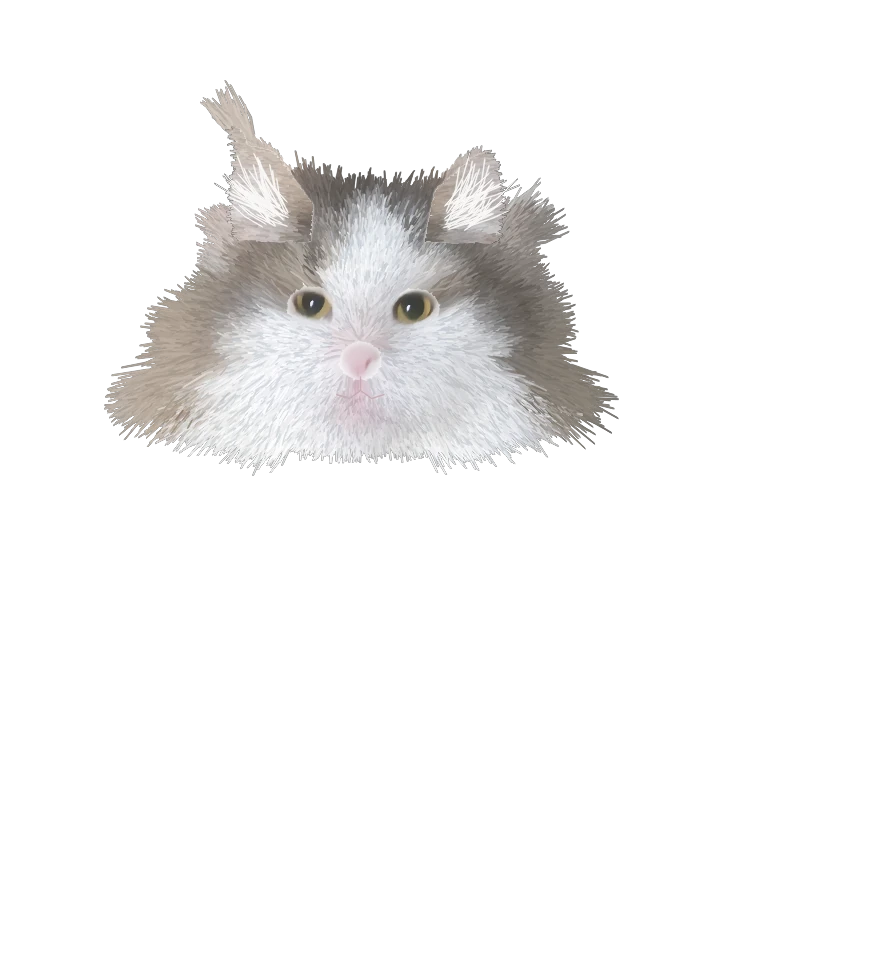
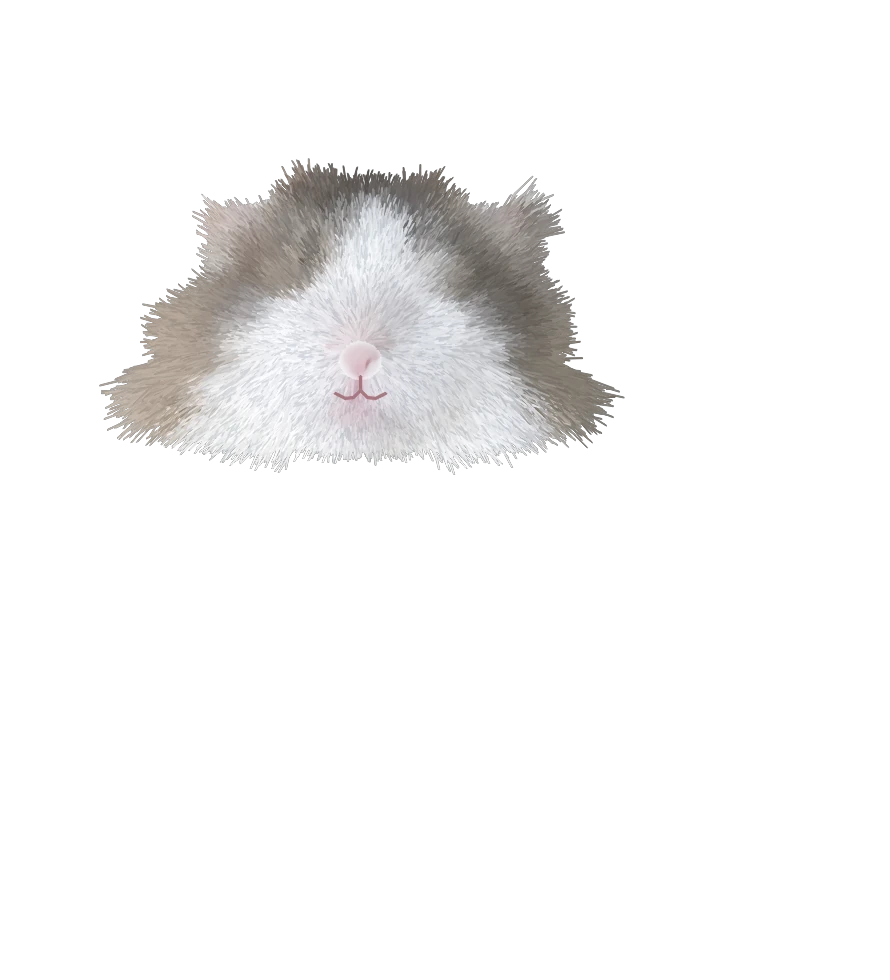
Playground: Ana design pass (separate designed ears with lynx tips and tufts, drawn almond eyes with lids, clearer mouth)
Claude-Session: https://claude.ai/code/session_01W4x6f7KtFbhsBZfqVxHVQA

Changed region(s): [[0.182, 0.0918, 0.6371, 0.3673], [0.1213, 0.3061, 0.6978, 0.4898]]

diff --git a/william/tpl.html b/william/tpl.html
@@ -715,7 +715,7 @@ XMLHttpRequest.prototype.open = function (m, url, ...rest) { for (const k in MOC
 // 絵の座標（890×980）：足もと (370, 885)、首 (360, 440)、しっぽのつけ根 (560, 705)、目 (312, 306) (414, 308)、口 (360, 390)
 // 性格は食いしん坊：正解すると ごはんがもらえて もぐもぐ。空のときは ときどき ぺろっ、「ごはん まだ？」
 const ANA = { img: {}, n: 0, blinkAt: 0, lookT: -1e9, lickT: -1e9, nextLick: 0, eatT: -1e9, food: 0, taps: 0, wantT: -1e9, nextWant: 0 };
-if (PLAYGROUND) for (const [k, src] of Object.entries(__ANA__)) { const im = new Image(); im.onload = () => { ANA.img[k] = im; if (++ANA.n === 3) { ANA.blinkAt = performance.now() + 3000; ANA.nextLick = performance.now() + 12000; } }; im.src = src; }
+if (PLAYGROUND) for (const [k, src] of Object.entries(__ANA__)) { const im = new Image(); im.onload = () => { ANA.img[k] = im; if (++ANA.n === 4) { ANA.blinkAt = performance.now() + 3000; ANA.nextLick = performance.now() + 12000; } }; im.src = src; }
 function anaFeed() { if (!PLAYGROUND) return; const t = performance.now(); if (t - ANA.eatT < 5200) { ANA.food = 1; return; } ANA.food = 1; ANA.eatT = t + 700; ANA.lookT = t; }
 function anaSpot() {
 	if (stacked) { const p = IMG_PL.top, q = M(p.x + 70, p.y); return { x: q.x, y: q.y }; }  // スマホ：同じ台の右どなり
@@ -723,7 +723,7 @@ function anaSpot() {
 }
 function anaH() { return catH * (stacked ? 1.0 : 1.2); }
 function drawAna(t) {
-	if (ANA.n < 3) return; const I = ANA.img, c = ctx, sp = anaSpot(), h = anaH(), k = h / 790;
+	if (ANA.n < 4) return; const I = ANA.img, c = ctx, sp = anaSpot(), h = anaH(), k = h / 790;
 	let lid = 0.08, mouth = 0, up = 0, dip = 0, lick = 0;
 	const bk = (t - ANA.blinkAt) / 240; if (bk >= 0 && bk < 1) lid = Math.max(lid, Math.sin(bk * Math.PI)); else if (bk >= 1) ANA.blinkAt = t + 3000 + Math.random() * 4000;
 	const lk = (t - ANA.lookT) / 1600; if (lk >= 0 && lk < 1) { up = Math.sin(lk * Math.PI); lid *= 1 - up; }
@@ -743,10 +743,22 @@ function drawAna(t) {
 	c.save(); c.translate(370, 885); c.scale(1 + br * 0.006, 1 + br * 0.01 - dip * 0.03); c.drawImage(I.body, -370, -885); c.restore();
 	// 頭（首を中心に かたむく・上を向く・おさらへ下げる）
 	c.save(); c.translate(360 - dip * 40, 440 - br * 3 - up * 10 + dip * 70 + chew * 5); c.rotate(sway * 0.035 - dip * 0.22); c.scale(1, 1 + up * 0.02); c.translate(-360, -440);
+	// 耳（頭のうしろ。つけ根を中心に ときどき ぴくっ。ごはん？のときは 立てる、食べるときは 少し寝かせる）
+	{ const tw = (t % 6100) / 260, a1 = tw < 1 ? Math.sin(tw * Math.PI) : 0, tw2 = ((t + 2700) % 8300) / 260, a2 = tw2 < 1 ? Math.sin(tw2 * Math.PI) : 0;
+	  for (const [sx, px, py, tw3] of [[-1, 275, 245, a1], [1, 448, 245, a2]]) { c.save(); c.translate(px, py); c.rotate(sx * (tw3 * 0.16 + dip * 0.12 - up * 0.06)); c.translate(-px, -py); c.beginPath(); c.rect(sx < 0 ? -200 : 360, -200, 560, 1180); c.clip(); c.drawImage(I.ears, sx * 6, -44); c.restore(); } }  /* 耳は 頭の毛の上に しっかり出す */
 	c.drawImage(I.head, 0, 0);
-	for (const [ex, ey] of [[312, 306], [414, 308]]) {  // まぶた（上から下りる。毛の色）
-		c.save(); c.translate(ex, ey); c.beginPath(); c.ellipse(0, 0, 25, 20, 0, 0, Math.PI * 2); c.clip();
-		const ly = -20 + lid * 40; c.fillStyle = '#e9e6e3'; c.fillRect(-26, -21, 52, ly + 21); c.strokeStyle = '#5a504a'; c.lineWidth = 2.4; c.beginPath(); c.moveTo(-26, ly - 3); c.quadraticCurveTo(0, ly + 4, 26, ly - 3); c.stroke(); c.restore();
+	// 目：デザインした目（アーモンド形で 外がわが少し上がる。こはく色〜黄みどり、たて長のひとみ、ハイライト）。まぶたが上から下りる
+	for (const [sx, ex, ey] of [[-1, 311, 306], [1, 413, 308]]) {
+		c.save(); c.translate(ex, ey); c.rotate(sx * -0.05);
+		const shape = () => { c.beginPath(); c.moveTo(-sx * 30, 2); c.bezierCurveTo(-sx * 22, -26, sx * 16, -30, sx * 30, -4); c.bezierCurveTo(sx * 22, 24, -sx * 14, 26, -sx * 30, 2); c.closePath(); };  /* まるみのある アーモンド形 */
+		shape(); c.lineWidth = 5; c.strokeStyle = '#3a302b'; c.lineJoin = 'round'; c.stroke(); c.save(); c.clip();
+		const g = c.createRadialGradient(0, 0, 3, 0, 0, 30); g.addColorStop(0, '#b9c463'); g.addColorStop(0.45, '#d8b548'); g.addColorStop(1, '#a9761f'); c.fillStyle = g; c.fillRect(-34, -32, 68, 64);
+		c.fillStyle = '#17120f'; c.beginPath(); c.ellipse(0, -2, 11 + up * 3, 18, 0, 0, Math.PI * 2); c.fill();
+		c.fillStyle = 'rgba(255,255,255,.92)'; c.beginPath(); c.arc(-6, -8, 4.2, 0, Math.PI * 2); c.fill(); c.beginPath(); c.arc(6, 7, 1.8, 0, Math.PI * 2); c.fill();
+		const ly = -30 + lid * 58; c.fillStyle = '#efecea'; c.fillRect(-34, -30, 68, ly + 30); c.strokeStyle = '#3a302b'; c.lineWidth = 3; c.beginPath(); c.moveTo(-34, ly - 2); c.quadraticCurveTo(0, ly + 4, 34, ly - 2); c.stroke();
+		c.restore();
+		c.strokeStyle = '#3a302b'; c.lineWidth = 3.4; c.lineCap = 'round'; c.beginPath(); c.moveTo(-sx * 30, 2); c.bezierCurveTo(-sx * 22, -26, sx * 16, -30, sx * 30, -4); c.stroke();  // 上まぶたの線は 少し太く
+		c.restore();
 	}
 	if (mouth > 0.08) { c.fillStyle = '#8a3a48'; c.beginPath(); c.ellipse(360, 396 + mouth * 5, 9 + mouth * 4, 2 + mouth * 9, 0, 0, Math.PI * 2); c.fill(); c.fillStyle = '#ee9aa6'; c.beginPath(); c.ellipse(360, 400 + mouth * 9, 6, 1 + mouth * 4, 0, 0, Math.PI * 2); c.fill(); }
 	else if (lick > 0.05) { c.fillStyle = '#ee9aa6'; c.strokeStyle = '#d27a88'; c.lineWidth = 1; c.beginPath(); c.moveTo(353, 392); c.quadraticCurveTo(351, 392 + lick * 16, 360, 393 + lick * 18); c.quadraticCurveTo(369, 392 + lick * 16, 367, 392); c.closePath(); c.fill(); c.stroke(); }
@@ -763,7 +775,7 @@ function drawAna(t) {
 	const wk = (t - ANA.wantT) / 3200; if (wk >= 0 && wk < 1) { const a = Math.min(1, wk * 6, (1 - wk) * 6); c.globalAlpha = a; c.fillStyle = 'rgba(255,255,255,.95)'; c.strokeStyle = '#2b2522'; c.lineWidth = 4; const bx = 470, by = 70; c.beginPath(); c.ellipse(bx, by, 150, 50, 0, 0, Math.PI * 2); c.fill(); c.stroke(); c.beginPath(); c.arc(bx - 60, by + 66, 11, 0, Math.PI * 2); c.fill(); c.stroke(); c.fillStyle = '#2b2522'; c.font = '500 40px "Kiwi Maru", sans-serif'; c.textAlign = 'center'; c.textBaseline = 'middle'; c.fillText('ごはん まだ？', bx, by + 2); c.globalAlpha = 1; }
 	c.restore();
 }
-function anaBox() { if (ANA.n < 3) return null; const sp = anaSpot(), h = anaH(); return { x: sp.x - h * 0.42, y: sp.y - h, w: h * 0.84, h }; }
+function anaBox() { if (ANA.n < 4) return null; const sp = anaSpot(), h = anaH(); return { x: sp.x - h * 0.42, y: sp.y - h, w: h * 0.84, h }; }
 W2D.motion = (g, i) => { const m = W2D.model; if (!m) return; const n = (m.internalModel.settings.motions[g] || []).length; if (n) m.motion(g, i ?? Math.floor(Math.random() * n), 3); };
 function applyParams(c) {
 	const P = W2D.P; if (!P) return;

diff --git a/william/ana/make_ana.py b/william/ana/make_ana.py
@@ -25,15 +25,20 @@ bgr = cv2.edgePreservingFilter(bgr, flags=1, sigma_s=30, sigma_r=0.35).astype(np
 bgr = 255 * (bgr / 255) ** 0.72 * 1.06
 hsv = cv2.cvtColor(bgr.clip(0, 255).astype(np.uint8), cv2.COLOR_BGR2HSV).astype(np.float32); hsv[..., 1] *= 1.15
 col = cv2.cvtColor(hsv.clip(0, 255).astype(np.uint8), cv2.COLOR_HSV2BGR).astype(np.float32)
+# 目は ページの側で デザインした目を描く（まばたきできるように）。写真の目は まわりの毛の色でうめる
+em = np.zeros((H, W), np.uint8)
+for (x, y) in [(545, 532), (748, 536)]: cv2.ellipse(em, tuple(int(v) for v in (x * SC + PAD, y * SC + PAD)), (34, 27), 0, 0, 360, 255, -1)
+col = cv2.inpaint(col.clip(0, 255).astype(np.uint8), em, 9, cv2.INPAINT_TELEA).astype(np.float32)
 # --- 部品の境目：頭（あごの線より上）と 体 ---
 NX, NY = P(640, 640)                                                     # 鼻
 yy, xx = np.mgrid[0:H, 0:W].astype(np.float32)
 chin = P(0, 790)[1] - 45 * ((xx - NX) / 180) ** 2                        # あご〜ほおの毛の下のふち
-head_m = (a > 0) & (yy < chin)
+skull = P(0, 372)[1] - 22 * np.cos(np.clip((xx - NX) / 150, -1.5, 1.5))          # 頭のてっぺんの線（写真の耳は 切り落とす）
+head_m = (a > 0) & (yy < chin) & (yy > skull)
 body_m = (a > 0) & (yy > chin - 34)
 # 顔の部品（目・鼻・口）には 毛をかけない
 feat = np.zeros((H, W), np.uint8)
-for (x, y, rx, ry) in [(545, 532, 48, 38), (748, 536, 48, 38), (640, 640, 40, 36)]:
+for (x, y, rx, ry) in [(640, 640, 40, 36)]:
     cv2.ellipse(feat, tuple(int(v) for v in P(x, y)), (int(rx * SC), int(ry * SC)), 0, 0, 360, 255, -1)
 feat = cv2.GaussianBlur(feat, (0, 0), 4)
 
@@ -83,30 +88,38 @@ def head_len(x, y):
     d = math.hypot(x - NX, (y - NY) * 1.1)
     return (8 + min(30, d * 0.16)) * (1.5 if y > NY and abs(x - NX) > 60 else 1)                  # ほおの毛は長い
 head = paint(head_m, head_flow, lambda x, y: np.hypot(x - NX, (y - NY) * 1.1) + np.where(y > NY, (y - NY) * 0.6, 0), 36000, head_len, 2.0)
-# 耳：頭の毛に うもれないように、あとから 短い毛で 上に描く（耳の中の白い長い毛も）
-ear_m = np.zeros((H, W), np.uint8)
-for poly in ([(400, 395), (392, 150), (415, 215), (470, 225), (545, 330), (540, 400)], [(770, 400), (790, 300), (870, 232), (905, 175), (912, 300), (900, 400)]):
-    cv2.fillPoly(ear_m, [np.array([P(*q) for q in poly], np.int32)], 1)
-ear_m = (ear_m > 0) & (a > 0)
-ears = paint(ear_m, lambda x, y: ((x - NX) * 0.25, -1.0), lambda x, y: -y, 5000, lambda x, y: 9, 1.8)
-eb = np.ascontiguousarray(ears[..., :3]); ea = np.ascontiguousarray(ears[..., 3])
-for (cx, cy, sx) in [(470, 330, -1), (835, 335, 1)]:                       # 耳の中から 外へ出る 白い長い毛
-    for i in range(46):
-        x0, y0 = P(cx + rng.uniform(-30, 30), cy + rng.uniform(-10, 45)); L = rng.uniform(26, 60); ang = math.radians(-90 + sx * rng.uniform(15, 75))
-        pts = np.array([[x0, y0], [x0 + math.cos(ang) * L * 0.5 + sx * 3, y0 + math.sin(ang) * L * 0.5], [x0 + math.cos(ang) * L, y0 + math.sin(ang) * L]]) * 8
-        cv2.polylines(eb, [pts.astype(np.int32)], False, (246, 248, 250), 1, cv2.LINE_AA, 3); cv2.polylines(ea, [pts.astype(np.int32)], False, 255, 1, cv2.LINE_AA, 3)
-k = (ea.astype(np.float32) / 255)[..., None]
-head[..., :3] = (head[..., :3] * (1 - k) + eb * k).astype(np.uint8); head[..., 3] = np.maximum(head[..., 3], ea)
+# 耳：べつの部品（頭のうしろに置く）。ノルウェージャンらしく 大きく、高い位置に、先に 長い毛（リンクスティップ）、中から 白い長い毛
+EAR = {-1: [(385, 420), (398, 190), (560, 345), (560, 420)], 1: [(735, 420), (735, 345), (892, 200), (912, 420)]}
+ears = np.zeros((H, W, 4), np.uint8); eb = np.ascontiguousarray(ears[..., :3]); ea = np.ascontiguousarray(ears[..., 3])
+for sx, poly in EAR.items():
+    pts = np.array([P(*q) for q in poly]); tip = pts[1] if sx < 0 else pts[2]
+    cv2.fillPoly(eb, [(pts * 8).astype(np.int32)], (128, 134, 142), cv2.LINE_AA, 3); cv2.fillPoly(ea, [(pts * 8).astype(np.int32)], 255, cv2.LINE_AA, 3)   # 外側：灰色
+    cen = pts.mean(axis=0); inner = cen + (pts - cen) * 0.68 + np.array([sx * 4, 10])
+    cv2.fillPoly(eb, [(inner * 8).astype(np.int32)], (196, 190, 226), cv2.LINE_AA, 3)                                                              # 内側：うすいピンク
+    for i in range(240):                                                                                                                           # 外側の短い毛
+        t = rng.rand(); q = pts[0] * (1 - t) + tip * t if rng.rand() < 0.5 else pts[-1] * (1 - t) + tip * t
+        q = q + (cen - q) * rng.uniform(0, 0.22); L = rng.uniform(5, 11); ang = math.atan2(tip[1] - cen[1], tip[0] - cen[0]) + rng.uniform(-0.6, 0.6)
+        g = rng.uniform(105, 150); l2 = np.array([q, q + [math.cos(ang) * L, math.sin(ang) * L]]) * 8
+        cv2.polylines(eb, [l2.astype(np.int32)], False, (g, g + 5, g + 12), 2, cv2.LINE_AA, 3); cv2.polylines(ea, [l2.astype(np.int32)], False, 255, 2, cv2.LINE_AA, 3)
+    for i in range(12):                                                                                                                            # 耳の先の長い毛
+        L = rng.uniform(16, 34); ang = math.radians(-90 + sx * rng.uniform(-4, 22)); q = tip + rng.uniform(-2, 2, 2)
+        l2 = np.array([q, q + [math.cos(ang) * L * 0.5 + sx * 2, math.sin(ang) * L * 0.5], q + [math.cos(ang) * L, math.sin(ang) * L]]) * 8
+        cv2.polylines(eb, [l2.astype(np.int32)], False, (86, 90, 98), 1, cv2.LINE_AA, 3); cv2.polylines(ea, [l2.astype(np.int32)], False, 255, 1, cv2.LINE_AA, 3)
+    for i in range(60):                                                                                                                            # 耳の中から 外へ流れる 白い長い毛
+        t = rng.uniform(0.15, 0.85); q = inner[0] * (1 - t) + inner[-1] * t + [0, -rng.uniform(0, 34)]; L = rng.uniform(26, 62); ang = math.radians(-90 + sx * rng.uniform(5, 70))
+        l2 = np.array([q, q + [math.cos(ang) * L * 0.5 + sx * 3, math.sin(ang) * L * 0.5], q + [math.cos(ang) * L, math.sin(ang) * L]]) * 8
+        cv2.polylines(eb, [l2.astype(np.int32)], False, (248, 250, 252), 1, cv2.LINE_AA, 3); cv2.polylines(ea, [l2.astype(np.int32)], False, 255, 1, cv2.LINE_AA, 3)
+ears = np.dstack([eb, ea])
 # 顔の部品は 写真の形のまま（なめらかにした色）を上にのせる
 k = (feat.astype(np.float32) / 255)[..., None]
 head[..., :3] = (head[..., :3] * (1 - k) + col * k).astype(np.uint8)
 # 口：鼻の下の たての線と、左右へ上がる口もと（写真の形）
-hb = np.ascontiguousarray(head[..., :3]); mc = (176, 170, 200)
+hb = np.ascontiguousarray(head[..., :3]); mc = (128, 120, 168)
 m0, m1 = P(640, 672), P(640, 700)
-cv2.line(hb, tuple(int(v * 8) for v in m0), tuple(int(v * 8) for v in m1), mc, 1, cv2.LINE_AA, 3)
+cv2.line(hb, tuple(int(v * 8) for v in m0), tuple(int(v * 8) for v in m1), mc, 2, cv2.LINE_AA, 3)
 for sx in (-1, 1):
-    pts = np.array([P(640, 700), P(640 + sx * 22, 716), P(640 + sx * 48, 708)]) * 8
-    cv2.polylines(hb, [pts.astype(np.int32)], False, mc, 1, cv2.LINE_AA, 3)
+    pts = np.array([P(640, 700), P(640 + sx * 14, 714), P(640 + sx * 30, 716), P(640 + sx * 50, 706)]) * 8
+    cv2.polylines(hb, [pts.astype(np.int32)], False, mc, 2, cv2.LINE_AA, 3)
 head[..., :3] = hb
 # しっぽ：写真では 体の右うしろに こい灰色の ふさふさ。しんの線にそって 毛を外へ
 tail_m = np.zeros((H, W), bool); spine = []
@@ -121,9 +134,9 @@ def tail_flow(x, y):
     ox, oy = x - spine[i][0], y - spine[i][1]; return (tx * 0.6 + ox * 1.4, ty * 0.6 + oy * 1.4)
 tail = paint(tail_m, tail_flow, lambda x, y: -np.hypot(x - spine[100][0], y - spine[100][1]), 16000, lambda x, y: 34, 2.6)
 col = tcol
-save(body, 'ana_body.webp'); save(head, 'ana_head.webp'); save(tail, 'ana_tail.webp')
+save(body, 'ana_body.webp'); save(head, 'ana_head.webp'); save(tail, 'ana_tail.webp'); save(ears, 'ana_ears.webp')
 comp = np.zeros((H, W, 4), np.float32)
-for im in (tail, body, head):
+for im in (tail, body, ears, head):
     f = im.astype(np.float32); k = f[..., 3:] / 255; comp[..., :3] = comp[..., :3] * (1 - k) + f[..., :3] * k; comp[..., 3:] = np.maximum(comp[..., 3:], f[..., 3:])
 bgc = np.full((H, W, 3), (150, 170, 196), np.float32); k = comp[..., 3:] / 255
 cv2.imwrite(os.path.join(os.path.dirname(sys.argv[1]), 'ana_illust_preview.jpg'), (bgc * (1 - k) + comp[..., :3] * k).astype(np.uint8))

diff --git a/william/build.py b/william/build.py
@@ -78,7 +78,7 @@ def main():
             '<style>body{margin:0}img{max-width:100%}[hidden]{display:none!important}</style>\n')
     out = head + s[:i] + '\n</head>\n<body>\n' + s[i:] + '\n</body>\n</html>\n'
     # playground.html：試し中の機能（アナちゃん）を入れたページ。本番（index.html）には出さない
-    open(os.path.join(ROOT, 'public', 'playground.html'), 'w', encoding='utf-8').write(out.replace('__PLAY__', 'true').replace('__ANA__', json.dumps({k: data_uri('ana_' + k + '.webp') for k in ('body', 'head', 'tail')})).replace('<title>', '<title>[playground] ', 1))
+    open(os.path.join(ROOT, 'public', 'playground.html'), 'w', encoding='utf-8').write(out.replace('__PLAY__', 'true').replace('__ANA__', json.dumps({k: data_uri('ana_' + k + '.webp') for k in ('body', 'head', 'tail', 'ears')})).replace('<title>', '<title>[playground] ', 1))
     out = out.replace('__PLAY__', 'false').replace('__ANA__', '{}')
     open(os.path.join(ROOT, 'public', 'index.html'), 'w', encoding='utf-8').write(out)
     print('public/index.html', len(out) // 1024, 'KB')

diff --git a/william/ana/README.md b/william/ana/README.md
@@ -10,3 +10,12 @@
 
 本式の Live2D（moc3）にする場合の工程（See-through で部品分け → PSD → Cubism Editor）は、GMO の記事を参照：
 https://recruit.group.gmo/engineer/jisedai/blog/see-through-x-kaggle-x-claude-code/
+
+## デザインの決まり（animation-studio スキルの「新しいキャラクターの作り方」を当てはめた）
+
+- 足もとを原点にして、うしろから順に描く：しっぽ → 体 → 耳 → 頭 → 目・口・ひげ → おさら
+- 部品ごとに 自分の動きを持たせる：しっぽ（つけ根で ふる）、耳（つけ根で ぴくっ）、頭（首で かたむく）、体（呼吸）
+- 表情は パラメータ：目の開き（まぶた）、ひとみの大きさ、口、舌
+- 猫（ノルウェージャン）らしさ：大きく 高い位置の耳と 先の長い毛、耳の中の白い毛、ほおと胸の長い毛、太いしっぽ、
+  まるみのあるアーモンド形の こはく色の目
+- 目は 写真の目を使わず デザインして描く（`drawAna`）。耳は べつの部品（`ana_ears.webp`）
